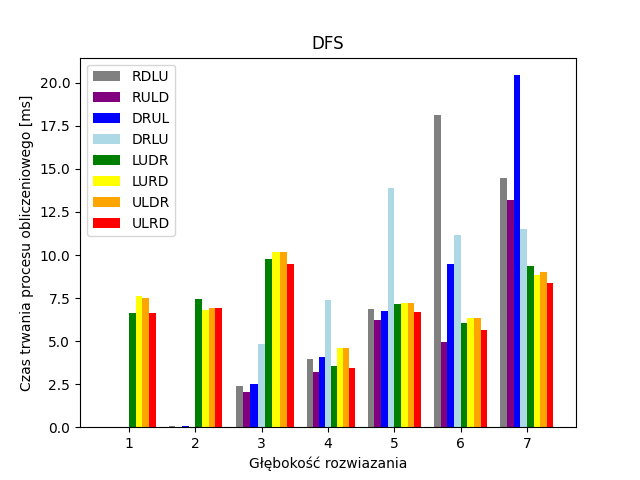
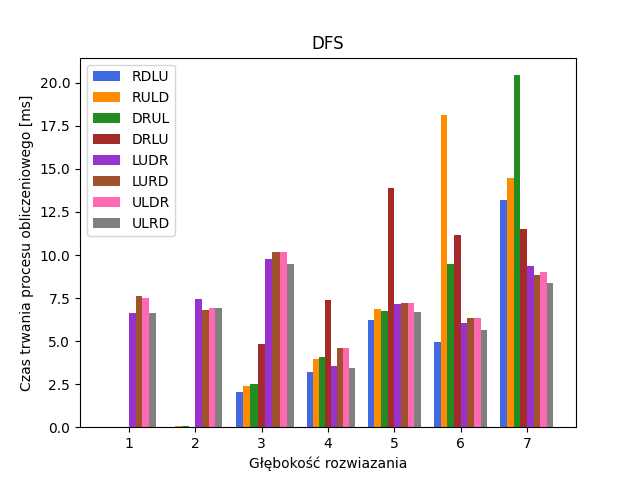
dfs graph update

Changed region(s): [[0.2812, 0.1562, 0.875, 0.9062], [0.125, 0.125, 0.1875, 0.5], [0.1875, 0.625, 0.25, 0.9062]]

diff --git a/fifteen-puzzle-project/graphs.py b/fifteen-puzzle-project/graphs.py
@@ -53,7 +53,11 @@ def summary_graph(data, nr_criterion, name_criterion, name_file, use_log_scale):
     plt.title('Ogółem')
     plt.xlabel('Głębokość rozwiazania')
     plt.ylabel(name_criterion)
-    plt.legend(('DFS','BFS','A*'), loc='upper left')
+    if nr_criterion == 2 or nr_criterion == 3:
+        plt.legend(('DFS', 'BFS', 'A*'), loc='upper right',bbox_to_anchor=(0.96, 0.88), borderaxespad=0.,
+           bbox_transform=plt.gcf().transFigure)
+    else:
+        plt.legend(('DFS','BFS','A*'), loc='upper left')
 
     # opcjonalne skalowanie logarytmiczne osi y
     if use_log_scale is True:
@@ -61,68 +65,6 @@ def summary_graph(data, nr_criterion, name_criterion, name_file, use_log_scale):
 
     # zapisanie wykresu do pliku
     plt.savefig('./graphs/' + name_file)
-
-def summary_graph2(data, nr_criterion, name_criterion, name_file, use_log_scale):
-        plt.clf()
-
-        # tworzenie list sum_astar, sum_bfs, sum_dfs
-        sum_astar = []  # pierwsze dla ilości zliczonych obiektów, reszta to głębokość rozwiązania = index
-        sum_bfs = []
-        sum_dfs = []
-        for i in range(0, 8):
-            sum_astar.append(0.0)
-            sum_bfs.append(0.0)
-            sum_dfs.append(0.0)
-
-        # tworzenie tabel avg_astar_table, avg_bfs_table, avg_dfs_table
-        avg_astar_table = []
-        avg_bfs_table = []
-        avg_dfs_table = []
-
-        astar = [0.0] * 7
-        bfs = [0.0] * 7
-        dfs = [0.0] * 7
-
-        # przetwarzanie danych
-        for d in data:
-            if d[2] == 'astr':
-                sum_astar[int(d[0])] += float(d[nr_criterion + 3])
-                sum_astar[0] = sum_astar[0] + 1.0
-                astar[int(d[0]) - 1] += 1.0
-            if d[2] == 'bfs':
-                sum_bfs[int(d[0])] += float(d[nr_criterion + 3])
-                sum_bfs[0] = sum_bfs[0] + 1.0
-                bfs[int(d[0]) - 1] += 1.0
-            if d[2] == 'dfs':
-                sum_dfs[int(d[0])] += float(d[nr_criterion + 3])
-                sum_dfs[0] = sum_dfs[0] + 1.0
-                dfs[int(d[0]) - 1] += 1.0
-
-        # obliczanie średnich dla każdego algorytmu
-        for i in range(0, 7):
-            avg_astar_table.append(sum_astar[i + 1] / astar[i])
-            avg_bfs_table.append(sum_bfs[i + 1] / bfs[i])
-            avg_dfs_table.append(sum_dfs[i + 1] / dfs[i])
-
-        # tworzenie wykresu
-        x = [1, 2, 3, 4, 5, 6, 7]
-        # y = [1.0, 2.0, 3.0, 4.0, 5.0, 6.0, 7.0, 8.0, 9.0, 10.0, 11.0, 12.0, 13.0, 14.0, 15.0, 16.0, 17.0, 18.0, 19.0, 20.0]
-        plt.hist([x, x, x], weights=[avg_dfs_table, avg_bfs_table, avg_astar_table], label=['BFS', 'DFS', 'A*'],
-                 color=['#FF8C00', '#4169E1', '#228B22'], bins=[0.5, 1.5, 2.5, 3.6, 4.5, 5.5, 6.5, 7.5])
-        # dodanie podziałki dla osi Y
-        plt.yticks(range(0, 21, 1))
-        plt.title('Ogółem')
-        plt.xlabel('Głębokość rozwiazania')
-        plt.ylabel(name_criterion)
-        plt.legend(('DFS', 'BFS', 'A*'), loc='upper right',bbox_to_anchor=(0.96, 0.88), borderaxespad=0.,
-           bbox_transform=plt.gcf().transFigure)
-
-        # opcjonalne skalowanie logarytmiczne osi y
-        if use_log_scale is True:
-            plt.yscale("log")
-
-        # zapisanie wykresu do pliku
-        plt.savefig('./graphs/' + name_file)
 
 def astar_graph(data, nr_criterion, name_criterion, name_file, use_log_scale):
     # Czyszczenie aktualnego wykresu
@@ -269,12 +211,12 @@ def dfs_graph(data, nr_criterion, name_criterion, name_file, use_log_scale):
     # Tworzymy histogram
     plt.hist([x, x, x, x, x, x, x, x],
              # Wagi dla każdego ruchu
-             weights=[avg_RDLU_table, avg_RDUL_table, avg_DRUL_table, avg_DRLU_table,
-                      avg_LUDR_table, avg_LURD_table, avg_ULDR_table, avg_ULRD_table],
+             weights=[avg_RDUL_table, avg_RDLU_table, avg_DRUL_table, avg_DRLU_table, avg_LUDR_table, avg_LURD_table,
+                      avg_ULDR_table, avg_ULRD_table],
              # Etykiety dla każdego ruchu
-             label=['RDLU', 'RULD', 'DRUL', 'DRLU', 'LUDR', 'LURD', 'ULDR', 'ULRD'],
+             label=['RDUL', 'RDLU', 'DRUL', 'DRLU', 'LUDR', 'LURD', 'ULDR', 'ULRD'],
              # Kolory dla każdego ruchu
-             color=['grey', 'purple', 'blue', 'lightblue', 'green', 'yellow', 'orange', 'red'],
+             color=['#4169E1', '#FF8C00', '#228B22', '#A52A2A', '#9932CC', '#A0522D', '#FF69B4', '#808080'],
              # Zakresy przedziałów histogramu
              bins=[0.5, 1.5, 2.5, 3.6, 4.5, 5.5, 6.5, 7.5])
 
@@ -282,7 +224,12 @@ def dfs_graph(data, nr_criterion, name_criterion, name_file, use_log_scale):
     plt.title('DFS')
     plt.xlabel('Głębokość rozwiazania')
     plt.ylabel(name_criterion)
-    plt.legend(('RDLU', 'RULD', 'DRUL', 'DRLU', 'LUDR', 'LURD', 'ULDR', 'ULRD'), loc='upper left')
+    if nr_criterion == 1 or nr_criterion == 2 or nr_criterion == 3 or nr_criterion == 4:
+        plt.legend(('RDLU', 'RULD', 'DRUL', 'DRLU', 'LUDR', 'LURD', 'ULDR', 'ULRD'), loc='upper right',bbox_to_anchor=(0.96, 0.88), borderaxespad=0.,
+           bbox_transform=plt.gcf().transFigure)
+    else:
+        plt.legend(('RDLU', 'RULD', 'DRUL', 'DRLU', 'LUDR', 'LURD', 'ULDR', 'ULRD'), loc='upper left')
+
 
     # Jeśli strange_numbers ma wartość True, ustawiamy skalę osi
     if use_log_scale is True:
@@ -301,15 +248,6 @@ def bfs_graph(data, nr_criterion, name_criterion, name_file, use_log_scale):
     sum_ULDR = [0.0] * 8
     sum_ULRD = [0.0] * 8
 
-    # Inicjalizacja list na średnie wartości punktów dla każdego kierunku
-    avg_RDUL_table = []
-    avg_RDLU_table = []
-    avg_DRUL_table = []
-    avg_DRLU_table = []
-    avg_LUDR_table = []
-    avg_LURD_table = []
-    avg_ULDR_table = []
-    avg_ULRD_table = []
 
     # Inicjalizacja list na ilości wystąpień dla każdego kierunku
     rdul = [0.0] * 7
@@ -415,12 +353,12 @@ astar_graph(dataFrame, 1, "Długość rozwiązania", "astr_dlugosc_rozwiazania",
 dfs_graph(dataFrame, 1, "Długość rozwiązania", "dfs_dlugosc_rozwiazania", False)
 bfs_graph(dataFrame, 1, "Długość rozwiązania", "bfs_dlugosc_rozwiazania", False)
 
-summary_graph2(dataFrame, 2, "Liczba stanów odwiedzonych w skali logarytmicznej", "ogolne_odwiedzone", True)
+summary_graph(dataFrame, 2, "Liczba stanów odwiedzonych w skali logarytmicznej", "ogolne_odwiedzone", True)
 astar_graph(dataFrame, 2, "Liczba stanów odwiedzonych", "astr_odwiedzone", False)
 bfs_graph(dataFrame, 2, "Liczba stanów odwiedzonych", "bfs_odwiedzone", False)
 dfs_graph(dataFrame, 2, "Liczba stanów odwiedzonych", "dfs_odwiedzone", False)
 
-summary_graph2(dataFrame, 3, "Liczba stanów przetworzonych w skali logarytmicznej", "ogolne_przetworzone", True)
+summary_graph(dataFrame, 3, "Liczba stanów przetworzonych w skali logarytmicznej", "ogolne_przetworzone", True)
 astar_graph(dataFrame, 3, "Liczba stanów przetworzonych", "astr_przetworzone", False)
 bfs_graph(dataFrame, 3, "Liczba stanów przetworzonych", "bfs_przetworzone", False)
 dfs_graph(dataFrame, 3, "Liczba stanów przetworzonych", "dfs_przetworzone", False)
